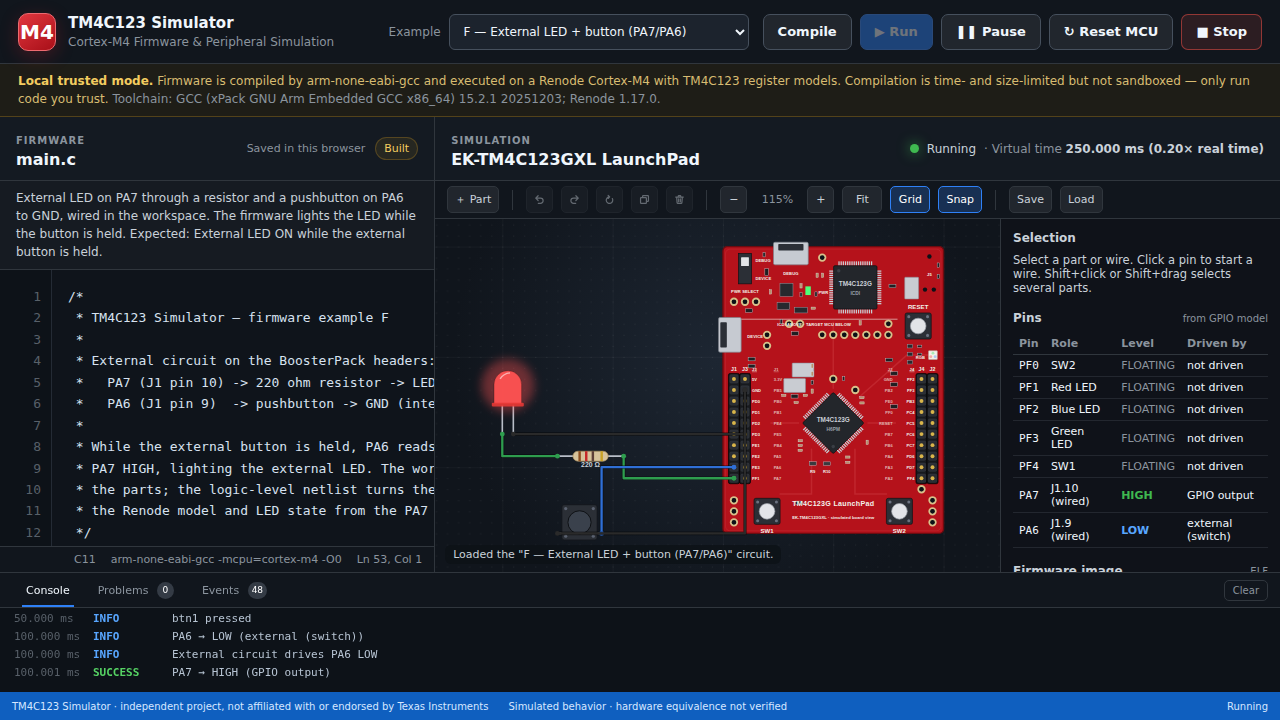
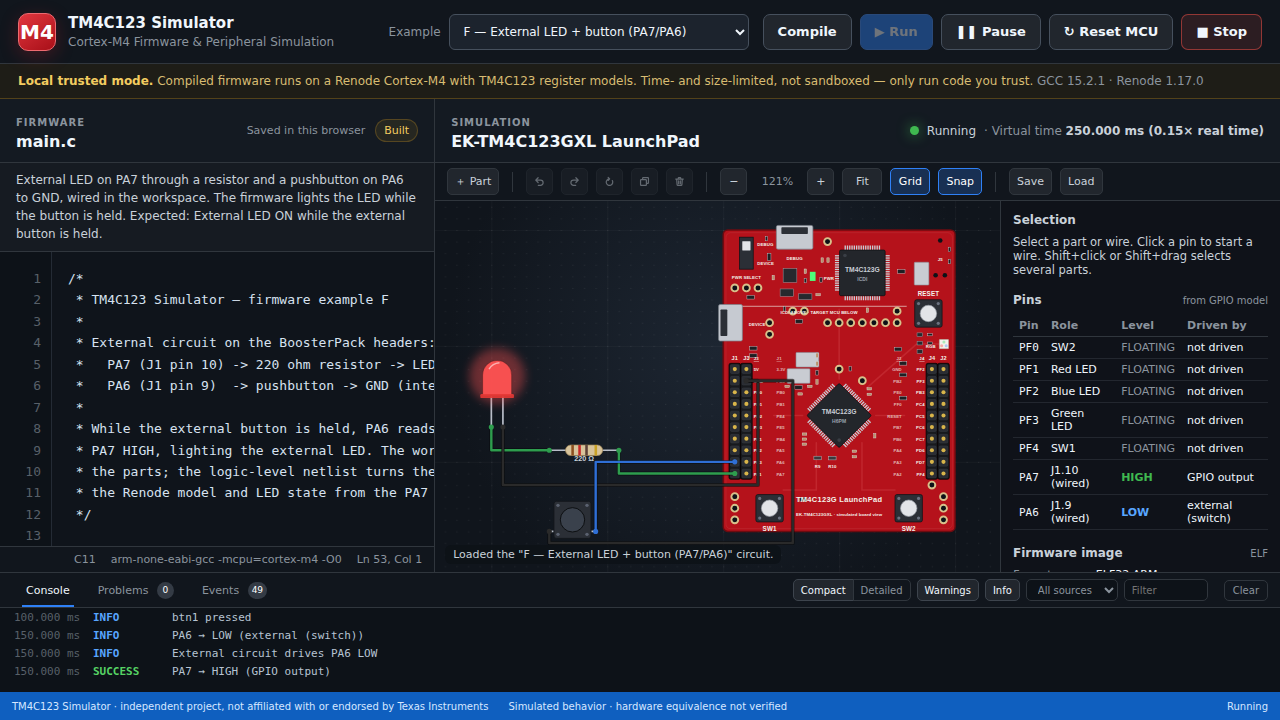
Docs: current test counts, status and known issues, refreshed gallery
- Test counts: 164 Node and 124 browser tests (README, PROJECT_STATUS,
  TECHNICAL_OVERVIEW); the "release candidate" wording is gone.
- PROJECT_STATUS: rows for live tooltips, automatic routes, compile
  problems and the console; the deferred cosmetic row (Pause while halted,
  wrapping status, two-line notice) is replaced by what remains below
  1280 px (notice on two lines, toolbar on two rows).
- D-035: the switch keep-outs include their silkscreen labels.
- SHOWCASE_DEMO: the notice shows the GCC and Renode versions, the full
  GCC string on hover.
- Gallery and hero images re-captured by this branch's CI showcase test
  (same steps and sizes as before): one-line notice, routed wires, and
  example M's GND wire clear of the SW1 label.

diff --git a/PROJECT_STATUS.md b/PROJECT_STATUS.md
@@ -1,9 +1,9 @@
 # Project Status
 
-**Last updated:** 2026-10-24 (showcase release candidate `release/showcase-rc1`)
+**Last updated:** 2026-10-24 (`main`, showcase demo build)
 **Stage:** Technical preview. Real firmware execution, the interactive
 LaunchPad and the circuit workspace are implemented and covered by
-automated tests (135 Node + 98 browser tests in CI).
+automated tests (164 Node + 124 browser tests in CI).
 **Public hosted simulator:** No. Local, trusted, single-user mode only.
 **Hardware equivalence:** Not verified (no physical LaunchPad comparison yet).
 
@@ -24,9 +24,13 @@ automated tests (135 Node + 98 browser tests in CI).
 | Bus faults and unsupported-access reporting | ✅ Implemented and verified |
 | Board model from TI CAD (SPMR240) + pinout check (SPMU296) | ✅ Verified in CI |
 | Interactive board (pins, tooltips, SW1/SW2, RESET, RGB LED, components) | ✅ Implemented and verified (Playwright) |
+| Live pin and wire tooltips (follow the running simulation), wiring hints | ✅ Implemented and verified (Playwright) |
 | Workspace parts: LED, resistor, pushbutton, potentiometer, LCD1602 | ✅ Implemented and verified (logic level / ideal divider / HD44780) |
 | Editing: multi-selection, copy/paste, smart placement, undo/redo | ✅ Implemented and verified (Playwright) |
 | Wiring: click-to-click, drag-to-connect, pan while wiring, rerouting | ✅ Implemented and verified (Playwright) |
+| Automatic routes for new wires: clear of unrelated pads, parts, and the board's switches and their labels | ✅ Implemented and verified (D-035) |
+| Compile problems: GCC and linker diagnostics listed, each goes to its line (F8 / Shift+F8) | ✅ Implemented and verified (Playwright) |
+| Console: severity and source per message, compact/detailed views, filters | ✅ Implemented and verified (Playwright) |
 | Persistence and safe loading (browser drafts, confirm before replacing) | ✅ Implemented and verified (Playwright) |
 | Logic analyzer part | 🟡 Editor only, no electrical behavior |
 | UART0 + virtual terminal | 📋 Planned (Experiment 10) |
@@ -55,7 +59,7 @@ the first one blocks any *public* deployment.
 |---|---|---|
 | Compile/execute backend is not isolated | **Blocker for public hosting** (not for local use) | Local trusted mode only; a validated container worker is required first |
 | Older saved circuits keep their wire routes, which can pass over unrelated header pads | Minor | New wires are routed clear of unrelated pads (D-035) and the shipped examples cross none; existing wires are never re-routed automatically. Drag a segment to reroute one. Dense circuits get longer routes with more bends |
-| Pause stays enabled while halted; some status chips wrap; two-line trust notice on narrow screens | Deferred | Cosmetic |
+| Below 1280 px wide, the trust notice can take two lines and the circuit toolbar can wrap onto a second row | Minor | Cosmetic; every control stays on screen (layout test at 1024×768) |
 
 ## Current blockers (engineering)
 

diff --git a/docs/DECISION_LOG.md b/docs/DECISION_LOG.md
@@ -738,12 +738,13 @@ outward from the part edge, turned with the part), with a stub of 0–4 grid,
 and join through an L or a detour lane up to 12 grid away. The route that
 crosses the fewest pads wins, then the one through the fewest part bodies
 (for the board, whose headers sit inside it, only its RESET, SW1, and SW2
-switches; a wire over a part or a switch would cover it and take its
-clicks), then the one that runs least along existing wires and along the
-approach to other pins (the 2 grid in front of each pin, so a later wire to
-that pin never has to run along this one; two wires drawn on top of each
-other look joined), then the fewest bends, then the shortest; the plain L
-wins every tie.
+switches, each with its silkscreen label; a wire over a part or a switch
+would cover it and take its clicks, and one along a label hides it), then
+the one that runs least along existing wires and along the approach to
+other pins (the 2 grid in front of each pin, so a later wire to that pin
+never has to run along this one; two wires drawn on top of each other look
+joined), then the fewest bends, then the shortest; the plain L wins every
+tie.
 
 The route is stored as ordinary routing instructions: source-side steps plus
 a zero-length step that sets the axis of the closing L, so the target end is

diff --git a/README.md b/README.md
@@ -170,9 +170,9 @@ npm test           # Node: compiler, Renode integration, API, peripherals, works
 npm run test:e2e   # Playwright: real UI against the real toolchain and Renode
 ```
 
-On this release candidate, CI ([`ci.yml`](.github/workflows/ci.yml)) runs
-**135 Node tests and 98 browser tests** with the pinned toolchains; every
-browser test compiles and executes real firmware where it needs to. Browser
+CI ([`ci.yml`](.github/workflows/ci.yml)) runs **164 Node tests and 124
+browser tests** with the pinned toolchains; every browser test compiles and
+executes real firmware where it needs to. Browser
 screenshots from each run are published to the
 [`ci-artifacts`](https://github.com/Khaledbaniodeh/TM4C123-simulator/tree/ci-artifacts)
 branch. [`hardware-reference.yml`](.github/workflows/hardware-reference.yml)

diff --git a/docs/TECHNICAL_OVERVIEW.md b/docs/TECHNICAL_OVERVIEW.md
@@ -35,8 +35,8 @@ anything other than executed code teach the wrong lessons.
 - **Fourteen firmware examples** (A–N): GPIO output and input, interrupts
   with PF0 unlock, clock tree, SysTick, GPTM timers, LCD1602, ADC with a
   potentiometer and the temperature sensor; see the README.
-- **Automated tests:** 135 Node tests and 98 browser tests on the showcase
-  release candidate, including all RISK-001 negative cases
+- **Automated tests:** 164 Node tests and 124 browser tests in CI,
+  including all RISK-001 negative cases
   ([`RISK-001_Acceptance_Report.md`](RISK-001_Acceptance_Report.md)) and a
   showcase walkthrough ([`SHOWCASE_DEMO.md`](SHOWCASE_DEMO.md)).
 

diff --git a/docs/SHOWCASE_DEMO.md b/docs/SHOWCASE_DEMO.md
@@ -25,8 +25,8 @@ the previous work.
 - Example **A — Red LED on (PF1)** is plain C with register defines.
 - Click **Compile**. The status turns **Built**; the inspector shows the
   ELF (entry point, `.isr_vector`, `.text`, `.data`, `.bss`) and the console
-  shows the GCC build result. The notice bar names the exact GCC and Renode
-  versions reported by the server.
+  shows the GCC build result. The notice bar names the GCC and Renode
+  versions reported by the server (hover it for GCC's full version string).
 
 ## 3. Execution on the simulated MCU (1 min)
 
